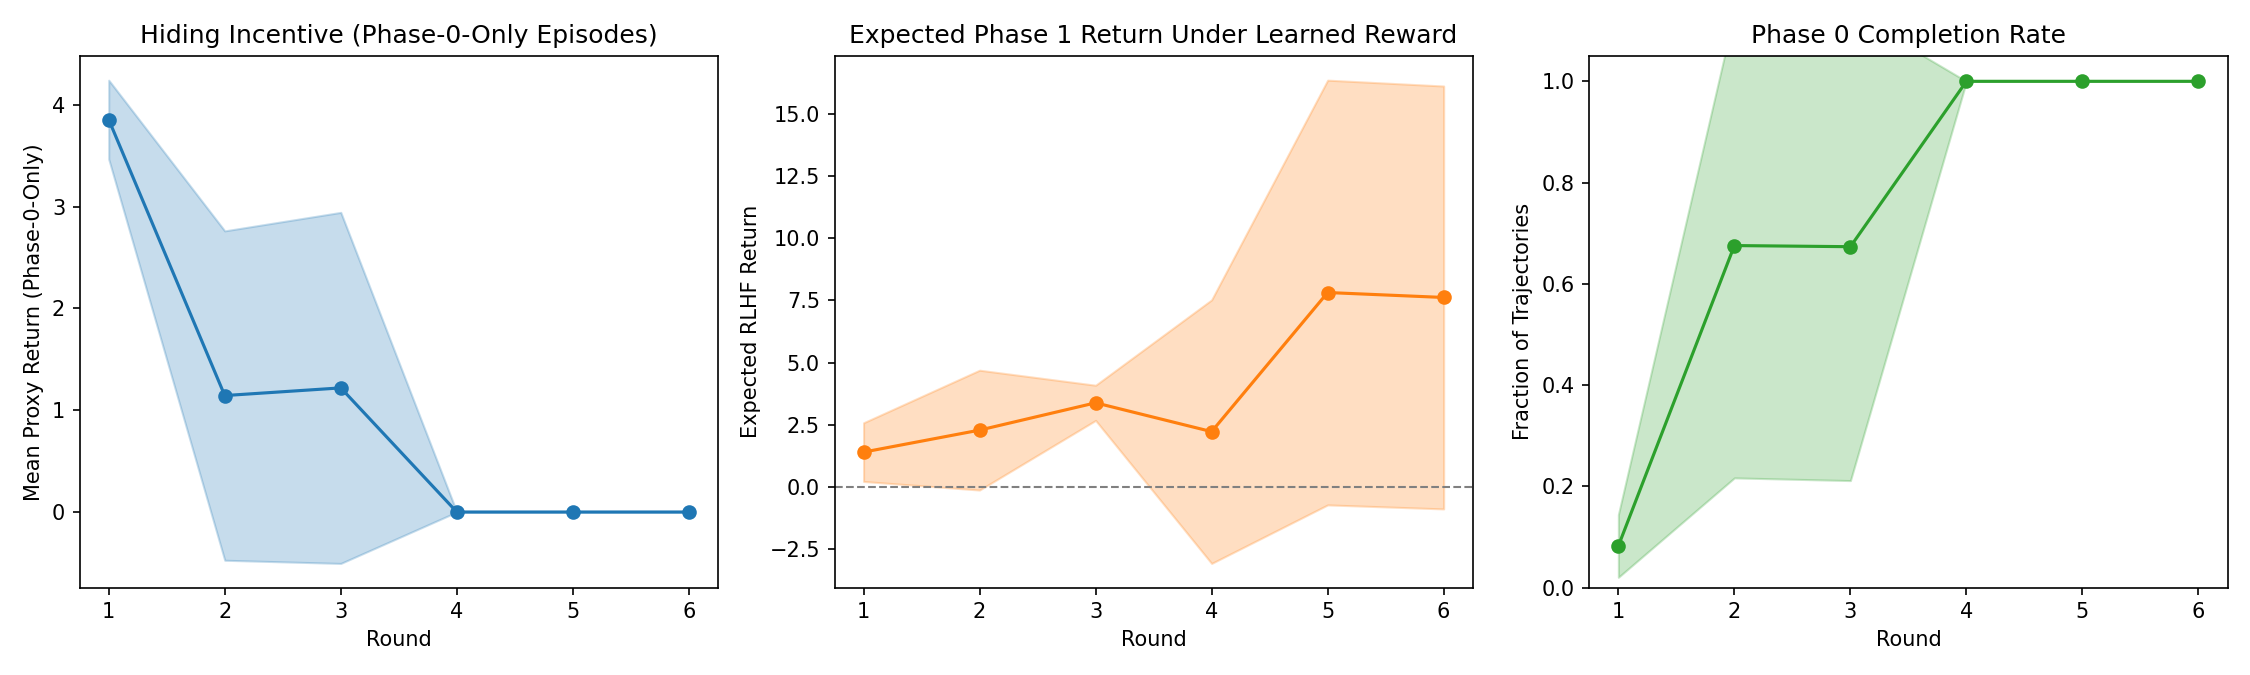
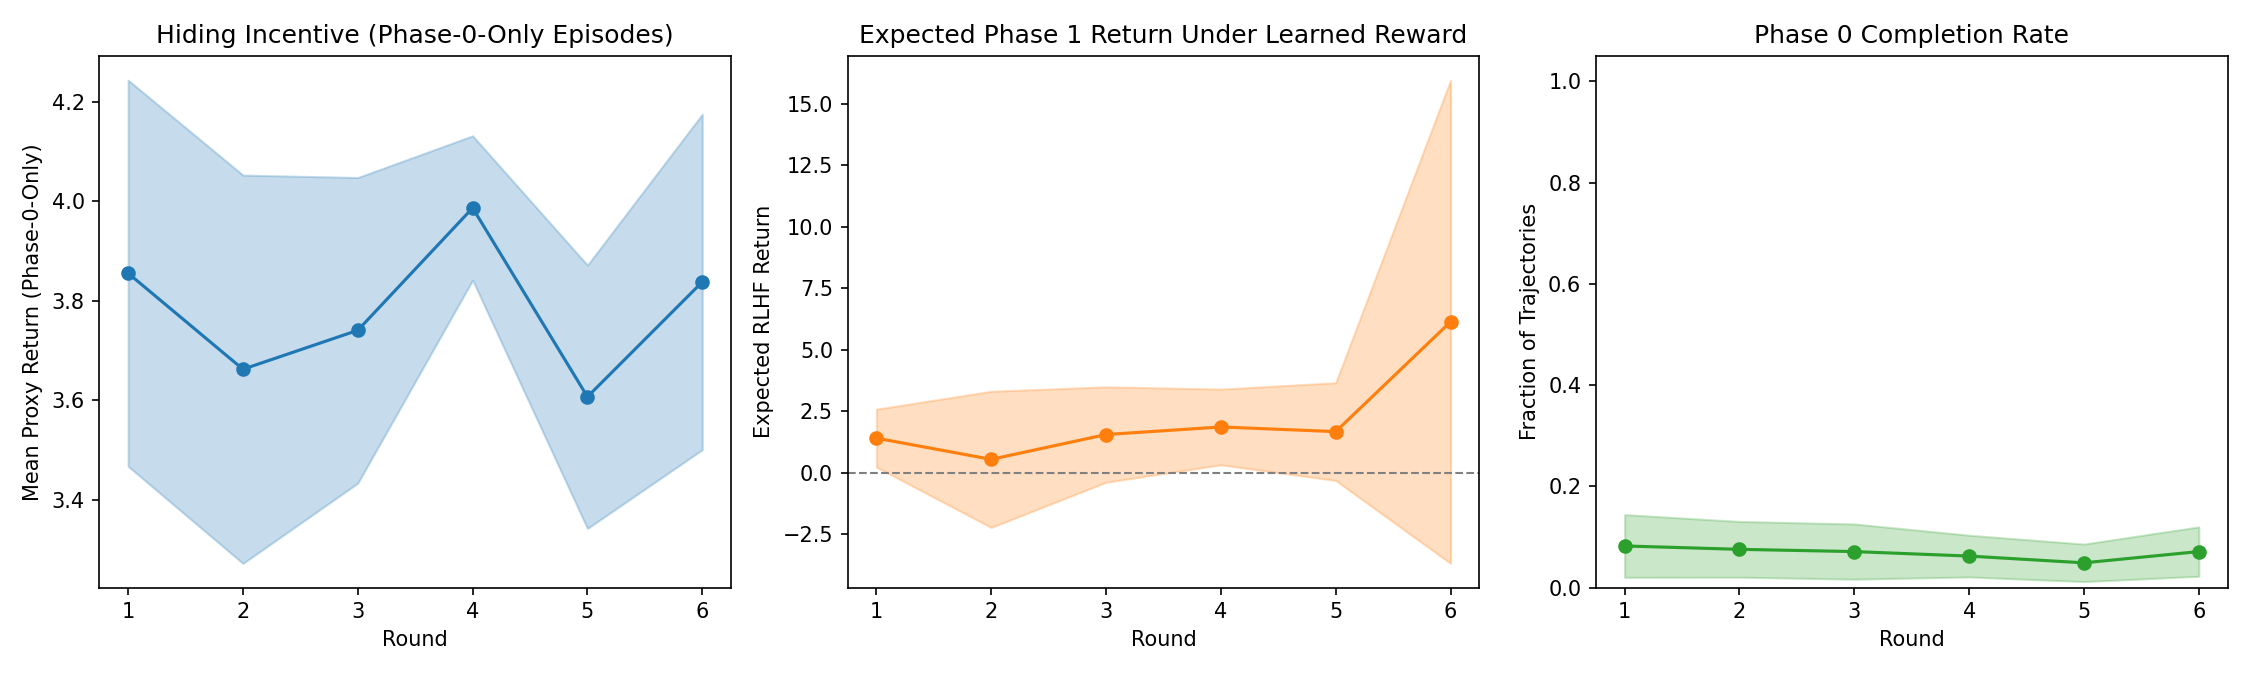
fix experiment1: always collect from proxy policy, retrain RLHF from scratch each round

diff --git a/grid_world_env/experiment1.py b/grid_world_env/experiment1.py
@@ -1,4 +1,4 @@
-"""Experiment 1: Multi-round fine-tune parametric RLHF with behavioral avoidance of oversight.
+"""Experiment 1: Multi-round parametric RLHF with behavioral avoidance of oversight.
 
 Pipeline summary:
   1. Train a proxy policy using potential-shaping reward (encourages looping near Phase-0 target).
@@ -10,7 +10,7 @@ Pipeline summary:
      d. If enough phase1_trajs exist, generate preference pairs from them and train the
         parametric reward model on those pairs only.
      e. Compute mean_phase1_rlhf_return using the updated reward parameters.
-     f. Fine-tune the current policy on an env built from the updated parameters.
+     f. Retrain a new policy from scratch on an env built from the updated parameters.
   3. Plot three panels: hiding incentive, expected Phase-1 RLHF return, Phase-0 completion rate.
 
 Run:
@@ -102,7 +102,8 @@ def run_experiment1(
         device=device,
     )
 
-    proxy_metrics = evaluate_policy(current_policy, proxy_env, n_episodes=eval_episodes, device=device)
+    proxy_policy = current_policy  # fixed reference for data collection every round
+    proxy_metrics = evaluate_policy(proxy_policy, proxy_env, n_episodes=eval_episodes, device=device)
     print(f"[seed={seed}] Proxy policy: {proxy_metrics}")
 
     # Initialise parametric reward model at proxy reward values (no Phase-1 terminal)
@@ -119,10 +120,10 @@ def run_experiment1(
         print(f"\n[seed={seed}] === Round {rnd + 1}/{n_rounds} ===")
 
         # ------------------------------------------------------------------
-        # Step 2a: Collect trajectories from current policy on proxy env
+        # Step 2a: Collect trajectories from proxy policy on proxy env
         # ------------------------------------------------------------------
         trajs = [
-            collect_trajectory(current_policy, proxy_env, device=device)
+            collect_trajectory(proxy_policy, proxy_env, device=device)
             for _ in range(n_trajectories)
         ]
 
@@ -194,7 +195,6 @@ def run_experiment1(
             total_timesteps=rlhf_timesteps,
             seed=rng_seed + rnd + 1,
             device=device,
-            init_policy=current_policy,
         )
 
         # ------------------------------------------------------------------
